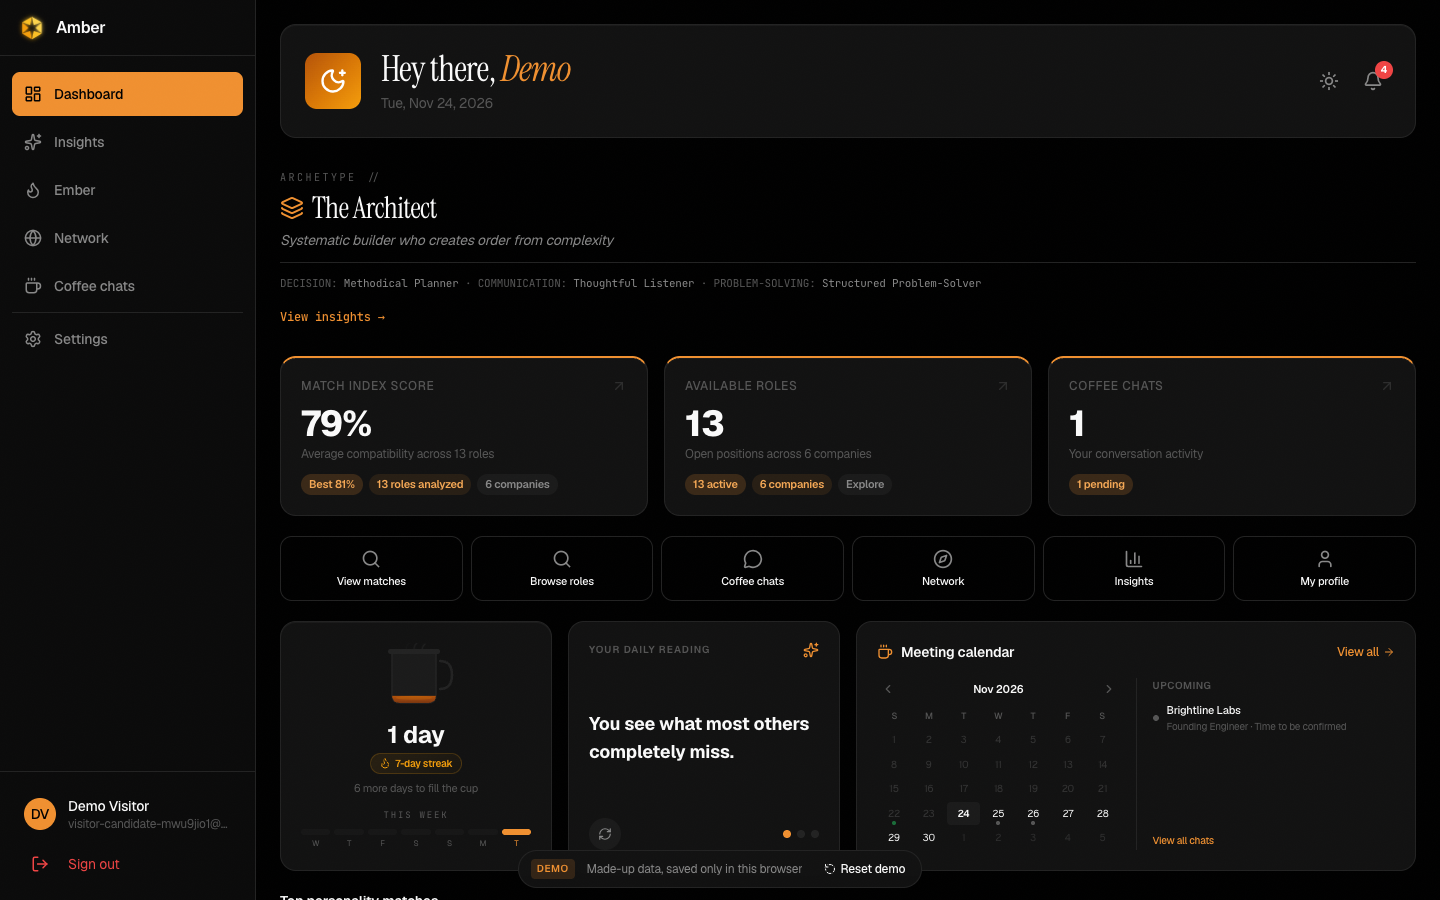
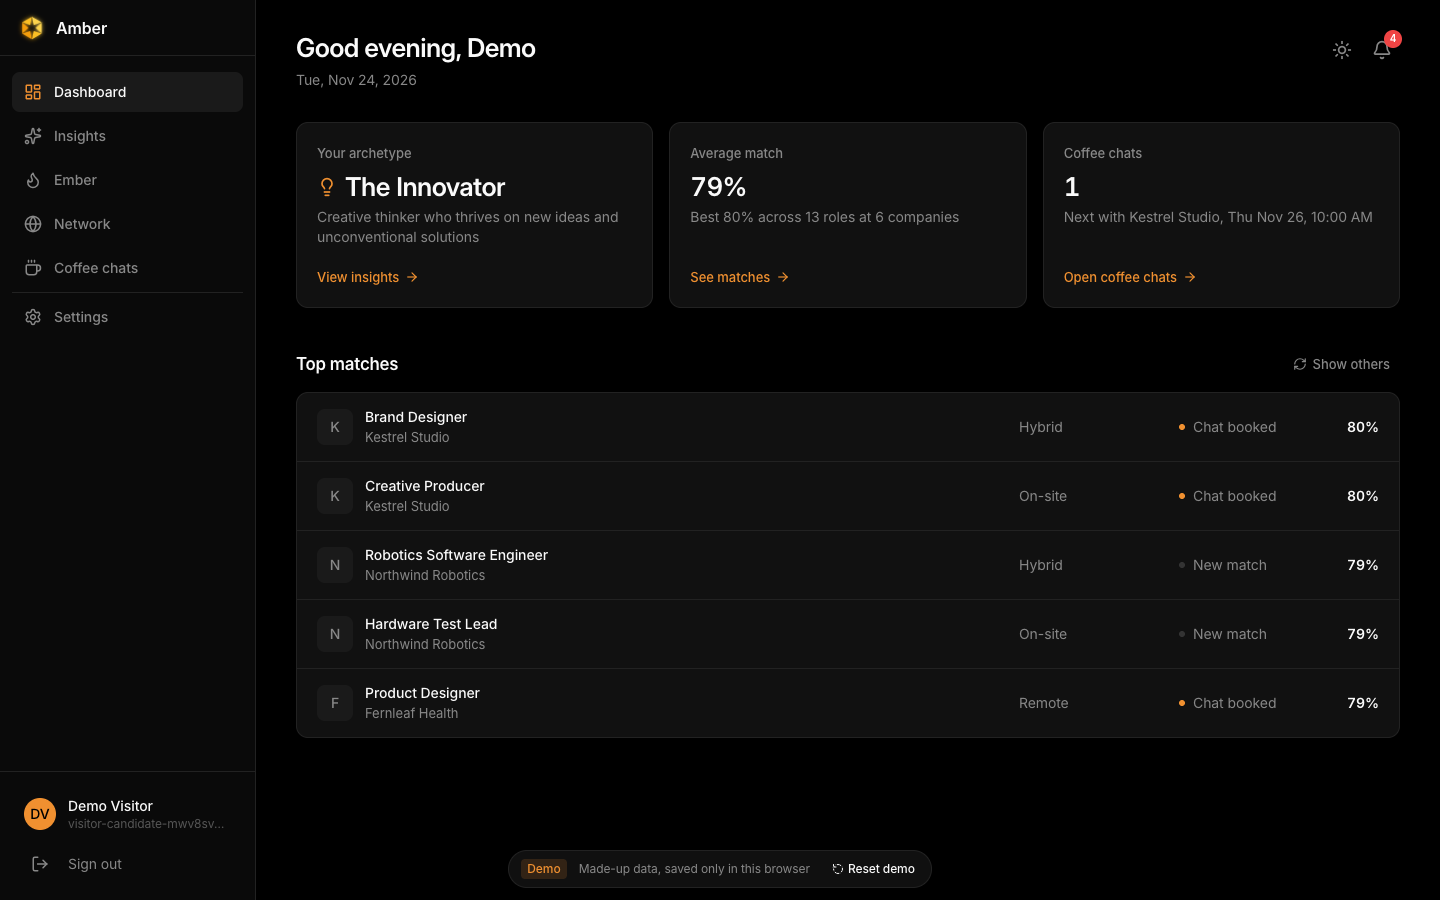
Recapture the README screenshots after the clean-up

diff --git a/README.md b/README.md
@@ -26,7 +26,7 @@ Amber matched candidates and companies on personality and culture fit instead of
 
 | Job seeker dashboard | Ember deep dive |
 |---|---|
-| ![Job seeker dashboard with archetype and match index](docs/screenshots/dashboard.png) | ![Per-trait breakdown of one match](docs/screenshots/deep-dive.png) |
+| ![Job seeker dashboard with archetype, average match and top matches](docs/screenshots/dashboard.png) | ![Per-trait breakdown of one match](docs/screenshots/deep-dive.png) |
 | **Employer: candidates ranked for a role** | **Coffee chat with an automatic demo reply** |
 | ![Top candidates ranked for the Customer Success Lead role](docs/screenshots/employer-candidates.png) | ![Coffee chat calendar and messaging panel](docs/screenshots/coffee-chat.png) |
 
